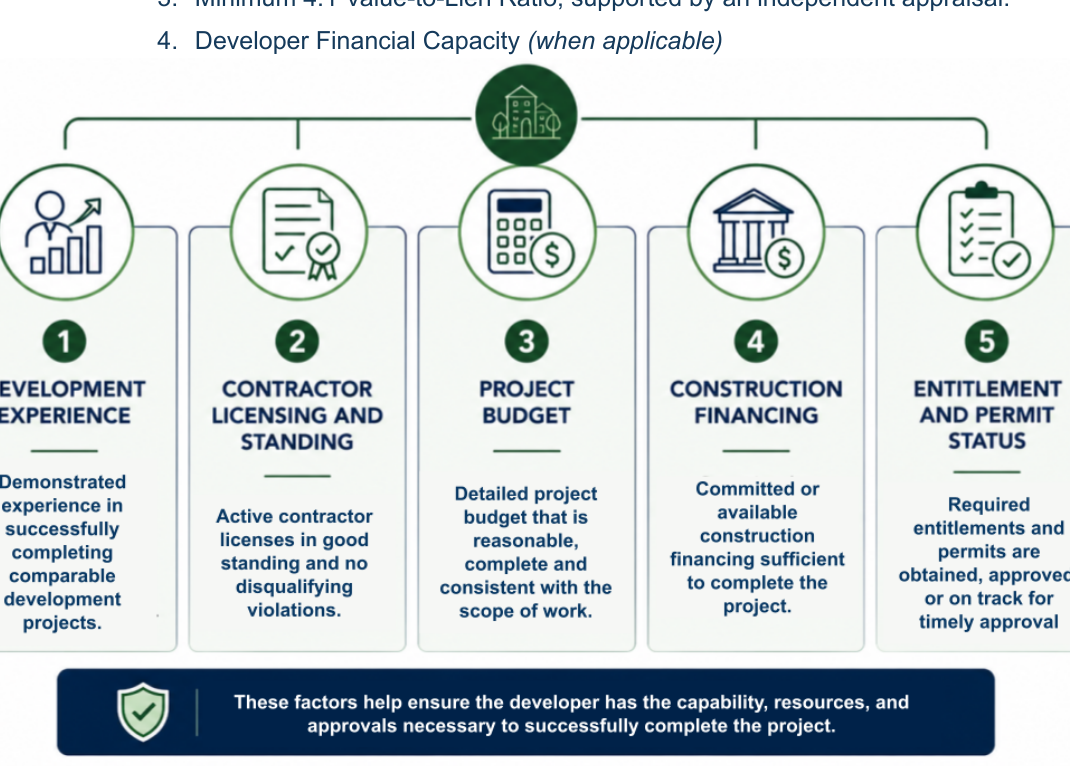
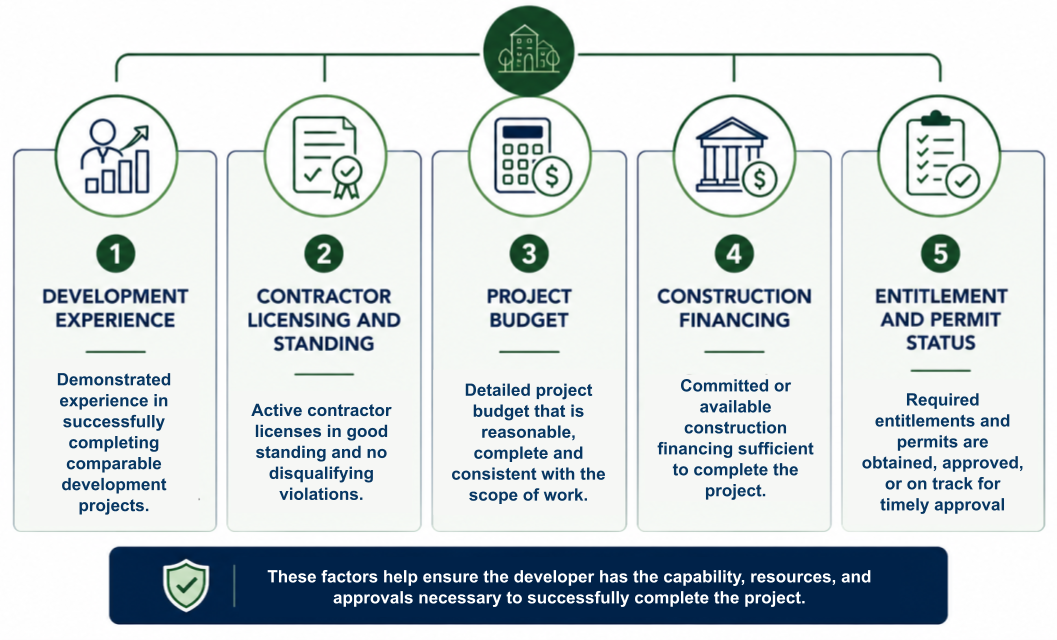
qualify.html: native INS-002 embedded diagrams replace clipped page-crops (all-edge margin proven); ratio stat reframed to 25% max lien-to-value with 4:1 equivalence retained; 4:1 sweep zero stragglers; full visual-verify loop 9 pages x 2 widths clean; rev 80

diff --git a/05_WEBSITE/qualify.html b/05_WEBSITE/qualify.html
@@ -63,7 +63,7 @@ footer a{color:#cfe0ee}
 <div class='stats'>
 <div class='stat'><div class='statnum'>1&ndash;50</div><div class='statlab'>Lots or units. Small projects are the point, not the exception.</div></div>
 <div class='stat'><div class='statnum'>$40,000</div><div class='statlab'>Minimum financing amount, unless the participating public agency sets a different floor.</div></div>
-<div class='stat'><div class='statnum'>4 : 1</div><div class='statlab'>Minimum value-to-lien ratio, supported by an independent appraisal the program arranges.</div></div>
+<div class='stat'><div class='statnum'>25%</div><div class='statlab'>Maximum lien against value. The financed amount cannot exceed 25% of appraised value (a 4:1 value-to-lien ratio), confirmed by an independent appraisal.</div></div>
 </div>
 <p style='margin-top:26px'><a class='btn alt' href='developer_application.html'>Start the application</a> &nbsp; <a class='btn' href='fee_estimator.html'>Estimate your fees first</a></p>
 </div></section>

diff --git a/07_BUILDLOG/Build_Log.md b/07_BUILDLOG/Build_Log.md
@@ -127,4 +127,6 @@ Regenerated and verified: the three brand SVGs and their PNGs, rebuilt through t
 
 26. July 31, 2026, qualify.html diagram correction, on Palmer's catch: the page rebuilt Dennis's two INS-002 infographics as text tiles instead of using the founder's own artwork, despite Dennis stating on the July 31 call that he builds an infographic per section as his process and wants the developer side matching his look. Both diagrams are now extracted from the uploaded INS-002 PDF (pages 15 and 16), cropped by frame and strip geometry with content-signature checks, and placed on the page as images with full alt text carrying every project type and capacity factor: assets_ins002_types.png (the nine-type eligible-projects panel with the Future Annexation Area note) and assets_ins002_factors.png (the five-factor capacity panel with the assurance strip). The rebuilt tile and factor markup is removed, not hidden. Verification: live Chromium at 1440 and 390 asserts both images complete with natural width, rendered width above 200 pixels, the 21-rect logo, zero console errors, zero failed requests; full-page screenshots at both widths asserted on disk. Note for the record: the environment's image viewer returned blank for every extraction this session, a recurrence of the July 13 viewer failure, so the crops were verified by pixel-signature measurement (navy and green fractions, frame-line geometry) rather than eyeball; Palmer's ten-minute eyeball pass covers the aesthetic judgment.
 
+27. August 1, 2026, qualify.html diagram and framing fixes, on Palmer's catch with screenshot: the five-factor diagram was clipped at both sides and carried leftover page text, because entry 26's page-crop bounds were wrong; and Palmer ordered the ratio stat reframed from 4:1 to 25 percent. Fixes: both diagram assets replaced with the PDF's native embedded images (types 1536x1024, factors 1057x640), which pixel-measurement proves have clean margins on all four edges, so nothing can clip; the crop pipeline is retired for these assets. The hero stat now reads 25 percent maximum lien against value, with the 4:1 value-to-lien equivalence and the independent appraisal kept in the label so the INS-002 register basis stays visible. Framing sweep for 4:1 across all site, marketing, and generator surfaces found exactly one instance, the one changed; zero stragglers. Full visual-verify loop run per the skill: all nine pages at 1440 and 390, zero console errors, zero failed requests, zero horizontal scroll, 21-rect logo everywhere; twelve section screenshots of qualify.html asserted on disk; per-element screenshots of both diagram images at both widths prove art-margin-complete edges, with one measured false alarm (a single navy-band pixel row at the element boundary reading as 20 percent edge ink over a five-row window) traced to the screenshot boundary, not the art. The environment image viewer remained blind all session; every visual claim above is pixel-measured, and Palmer's eyeball is the aesthetic gate.
+
 *INSITE(TM) is a pre-launch program concept administered by HGF Management Company. Internal record. Not an offer of financing, legal advice, or investment advice.*
